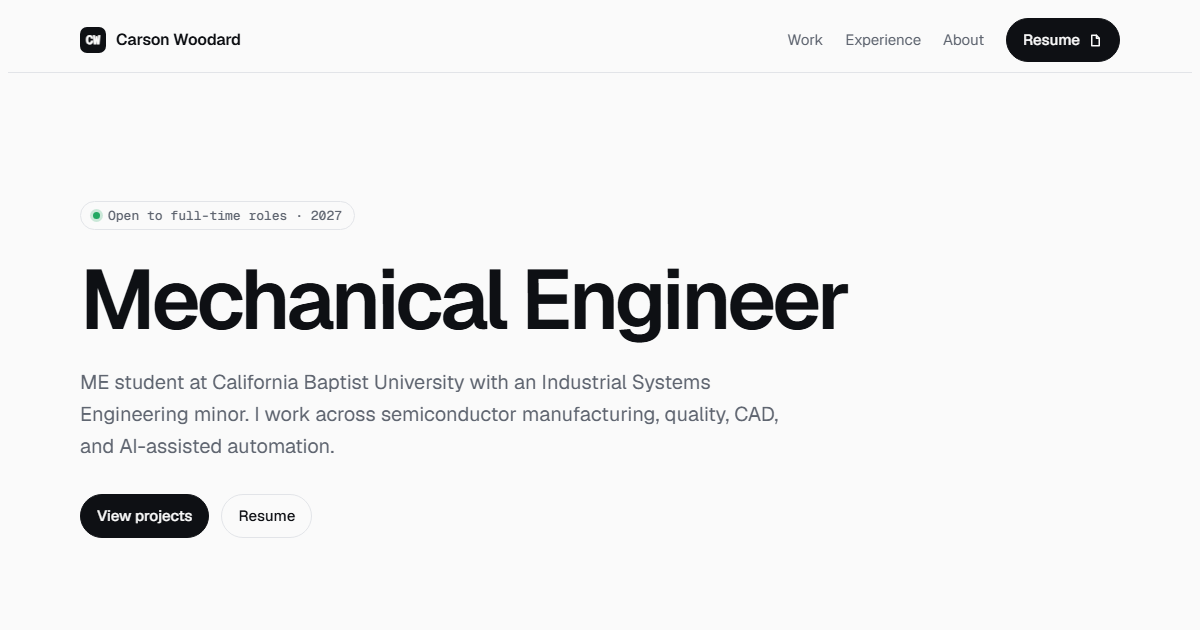
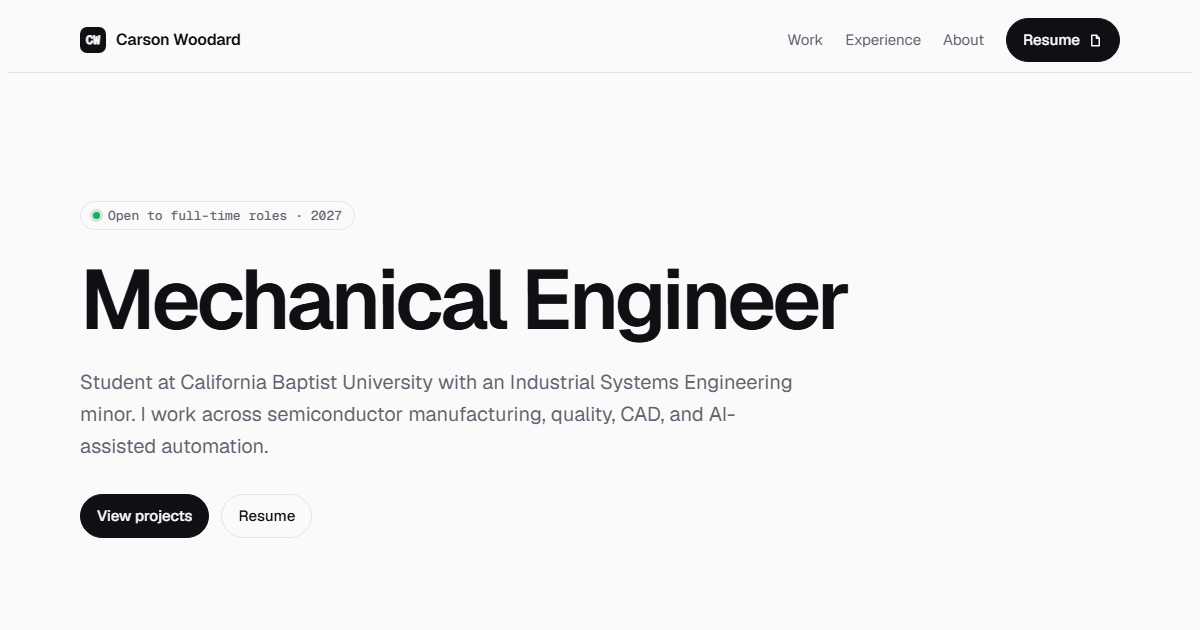
Hero intro: drop ME prefix

Changed region(s): [[0.0617, 0.573, 0.6783, 0.7238]]

diff --git a/index.html b/index.html
@@ -245,7 +245,7 @@ footer p { margin: 0; color: var(--muted); }
     <section class="hero">
       <span class="avail"><i></i>Open to full-time roles · 2027</span>
       <h1>Mechanical Engineer</h1>
-      <p>ME student at California Baptist University with an Industrial Systems Engineering minor. I work across semiconductor manufacturing, quality, CAD, and AI-assisted automation.</p>
+      <p>Student at California Baptist University with an Industrial Systems Engineering minor. I work across semiconductor manufacturing, quality, CAD, and AI-assisted automation.</p>
       <div class="ctas">
         <a class="btn" href="#work">View projects</a>
         <a class="btn ghost" href="#resume">Resume</a>
